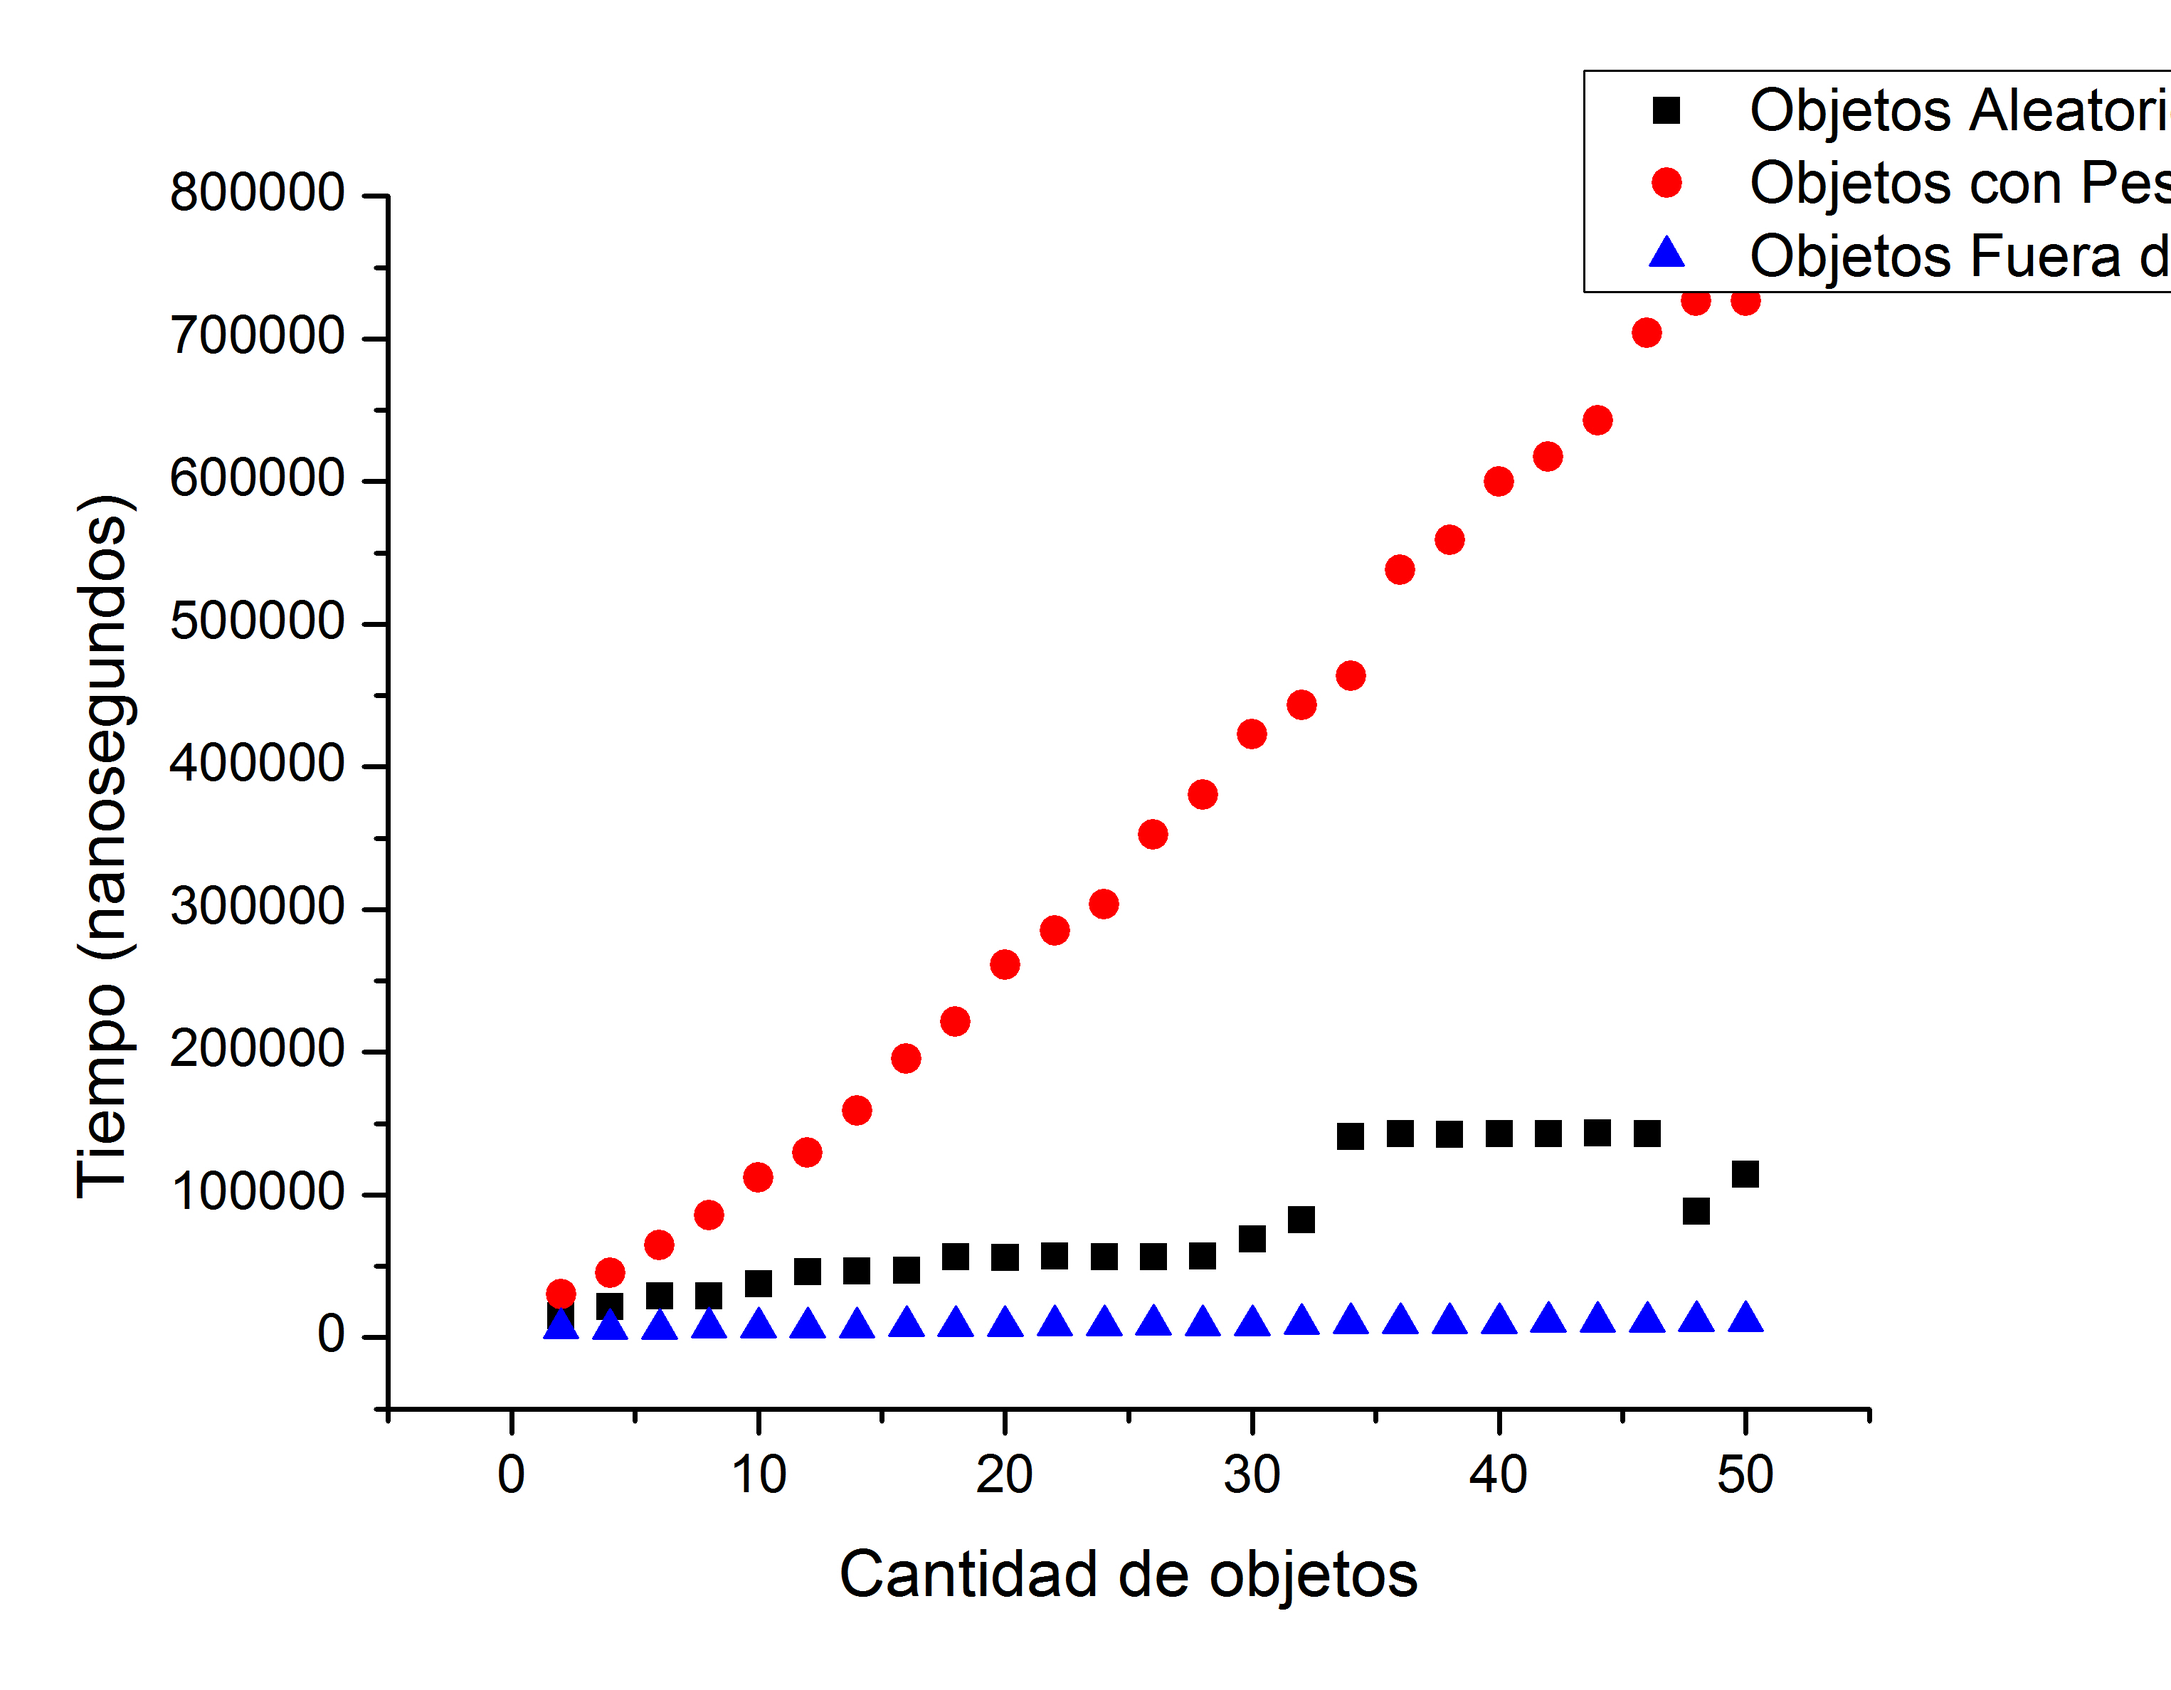
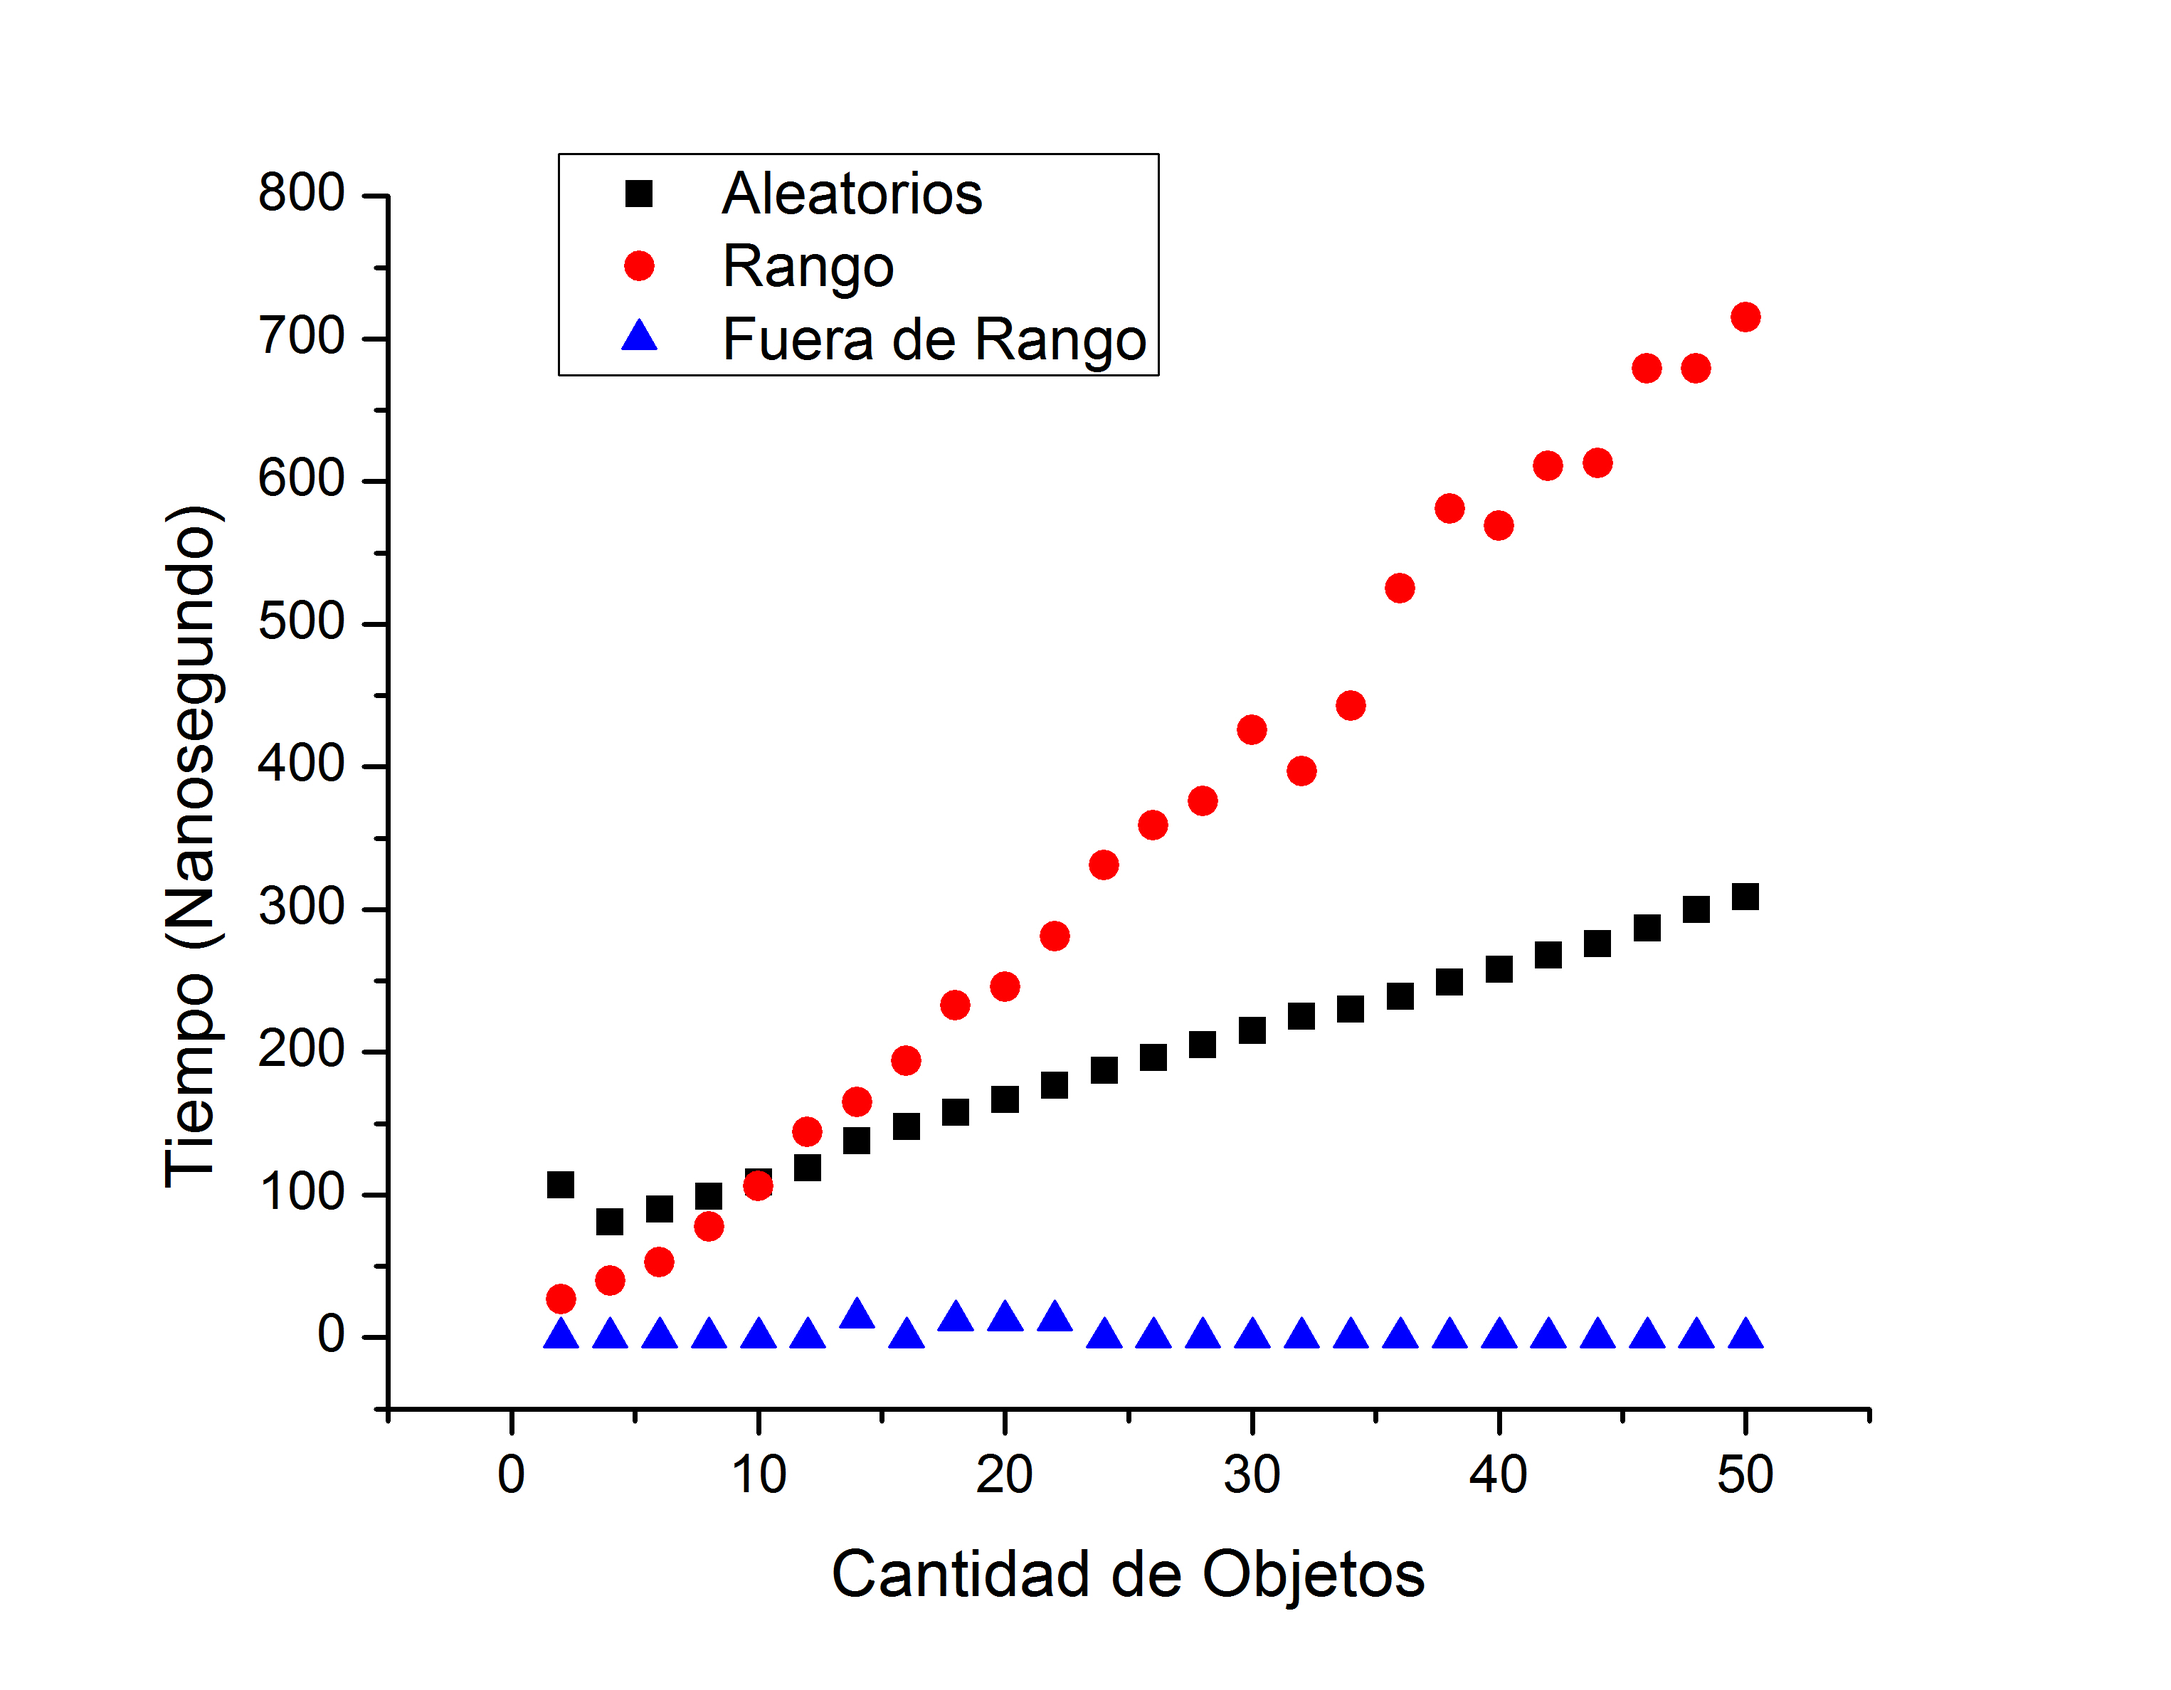
inf pto 3

diff --git a/informe/inf1.tex b/informe/inf1.tex
@@ -388,29 +388,62 @@ $\prod_{i=1}^{3}K_{i}  = K_1*K_2*K_3$   sea $K_max = Max(K_1,K_2,K_3)$ y $K_o= K
 
 \subsection{Experimentación}
 
-\subsubsection{Resultados}
+La cota de complejidad de nuestro algoritmo es $\prod_{i=1}^{3}K_{i}* T$. Es decir que depende de la capacidad y cantidad de mochilas y la cantidad de tesoros.
+En esta sección trataremos de respaldar esta cota mediante el análisis de los datos empíricos que obtuvimos a traves del testeo de nuestro algoritmo.
+Con este objetivo a lo largo de los tests modificamos los inputs para observar de a una variable por vez dejando las otras constantes y así poder analizar el tiempo de ejecución en cada caso.
+
+
+\subsubsection{Resultados y análisis}
+
+En nuestro primer experimento fijamos una mochila con capacidad constante (50) y fuimos aumentando la cantidad de tesoros de a dos.
+Así mismo, analisamos tres subcasos pertinentes: cuando los objetos están dados aleatoriamente (sin ninguna restricción sobre su peso), cuando el peso de los objetos se encuentra restringido a la capacidad de la mochila y cuando el peso de objetos es superior a la capacidad de la mochila. 
 
 \begin{figure}[H]
 \centering
-\includegraphics[width=0.4\textwidth]{comparacionObjetos}
-\caption{Comparación de los tres casos de nuestro algoritmo variando la cantidad de objetos}
+\includegraphics[width=0.6\textwidth]{comparacionObjetos}
+\caption{gráfico comparativo de los tres subcasos al varias T.}
 \end{figure}
 
-En esta figura podemos observar no solo la tendencia lineal de la complejidad del algoritmo sino también la variación de las pendientes en cada caso. Notemos que a mayor pendiente, la ejecución toma más tiempo, es decir	 es "más lenta".
-En particular podemos destacar que en el caso de que los objetos tengan todos peso mayor a la capacidad de las mochilas, la recta tiende a ser constante. 
-  
+En esta figura podemos observar no solo la tendencia lineal en la complejidad del algoritmo sino también la variación del crecimiento del tiempo para los distintos casos.
+El hecho de que los gráficos sean lineales respaldan nuestra cota de complejidad ya que estariamos variando el parametro T mientras $K_1$ (la capacidad de la mochila) se mantiene constante. Estaríamos bajo la presencia de una función de tipo $Y=c*X$ con c constante.
+En particular podemos destacar que en el caso de que los objetos tengan todos peso mayor a la capacidad de las mochilas, la recta tiende a ser constante y el tiempo de ejecución es casi nulo.
+Pdemos concluir que este sería nuestro mejor caso y se debe al hecho de que filtramos nuestra entrada para que no se tengan en cuento estos tesoros.
+Observemos que en general lleva más tiempo obtener un resultado cuando los objetos tienen peso menor a la capacidad de la mochila.
+
+\\
+\\
+Luego realizamos tests para poder ver el comportamiento del algoritmo al ir aumentando el peso de la mochila. Utilizamos un test para evaluar el comportamiento cuando los objetos son aleatorios y otro para cuando todos los tesoros tienen el peso mayor a la capacidad de la mochila.
+
 \begin{figure}[H]
 \centering
-\includegraphics[width=0.4\textwidth]{pesoMCvsObjAl}
-\caption{}
+\includegraphics[width=0.6\textwidth]{pesoMochila}
+\caption{gráfico comparativo al variar K}
 \end{figure}
+
+Podemos observar que al tener los tesoros con peso fuera del rango de la capacidad de la mochila el tiempo se mantiene constante, practicamente nulo igual que en el experimento anterior. Con los objetos aleatorios vemos que tiene cierta tendencia lineal como es de esperarse (ya que este caso es similar al analizando en la figura()) sin embargo algunos valores quedan distorcionados. Creemos que esto se debe al hecho de que los objetos sean aleatorios.
+\\
+\\
+Finalmente corrimos tests variando la cantidad de mochilas (todas con capacidad 50) manteniendo constantes los tesoros.
 
 \begin{figure}[H]
 \centering
-\includegraphics[width=0.4\textwidth]{variacionPesoMoch}
-\caption{}
+\includegraphics[width=0.6\textwidth]{cantMochilas}
+\caption{variación de la cantidad de mochilas.}
 \end{figure}
 
-\subsubsection{Análisis}
+En esta figura podemos observar el crecimiento exponencial del tiempo dependiendo de la cantidad de mochilas. Esto concuerda con el hecho de que al tener todas las variables en 50 ($T=50, K_1 =50 k_2=50, k_3=50$) al ir aumentando la cantidad de mochilas estariamos elevando la constante 50 (con $K_1$ tenemos $K_1*T=50^2$, con $K_2$ tenemos $K_1*K_2*T=50^3, etc $). Este es el tipo de función exponencial $Y=50^X$.
+\\
+\\
+\\
+
+
+
+
+
+
+:-"Y todos estos tesoros van a ir para algun museo no?"
+:-"Sí,Indi... lo que digas..."
+
+
 
 \end{document}
